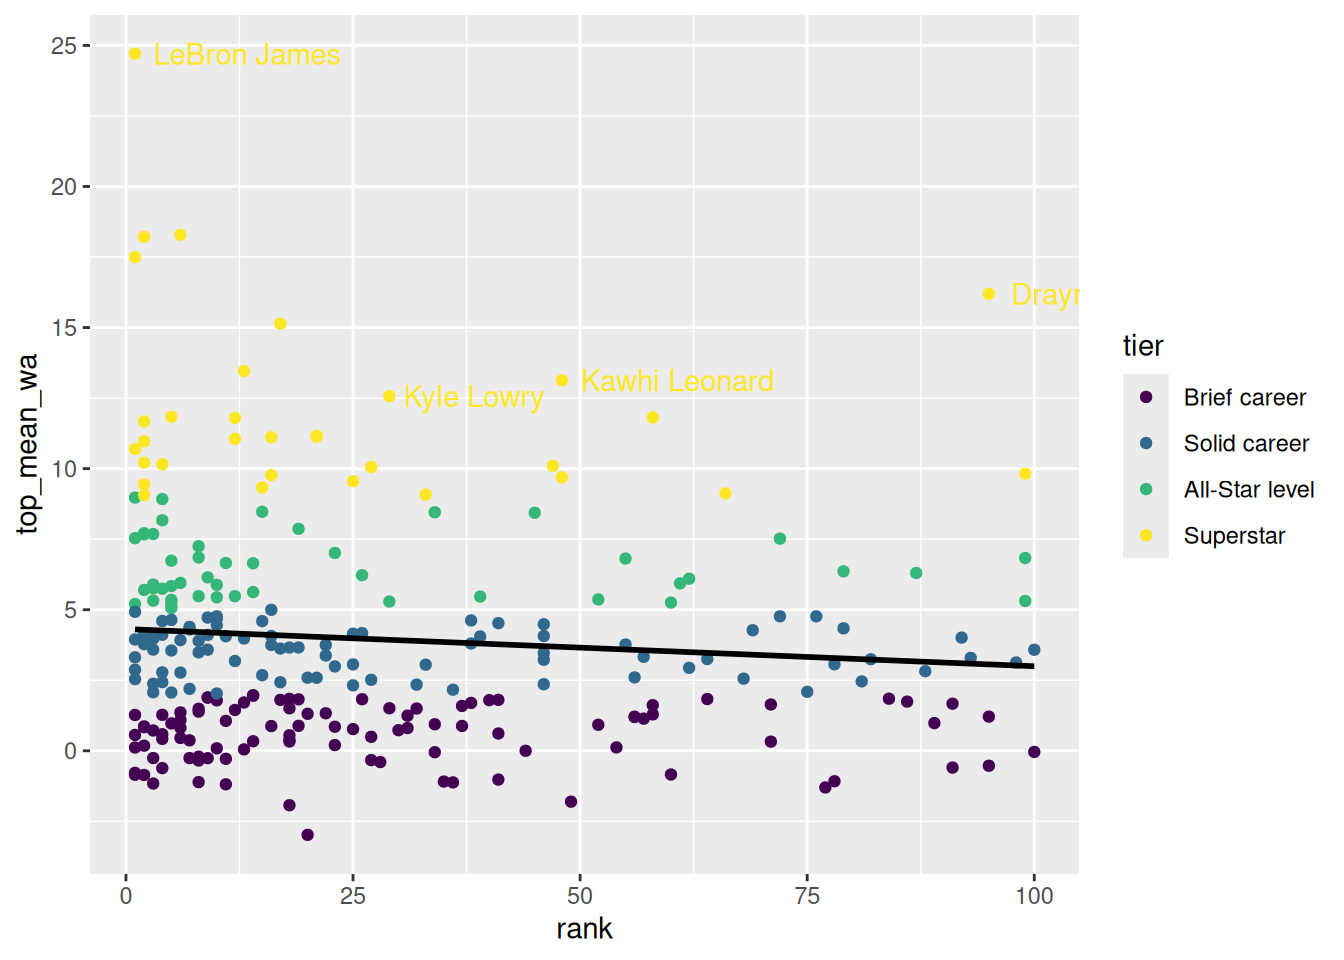
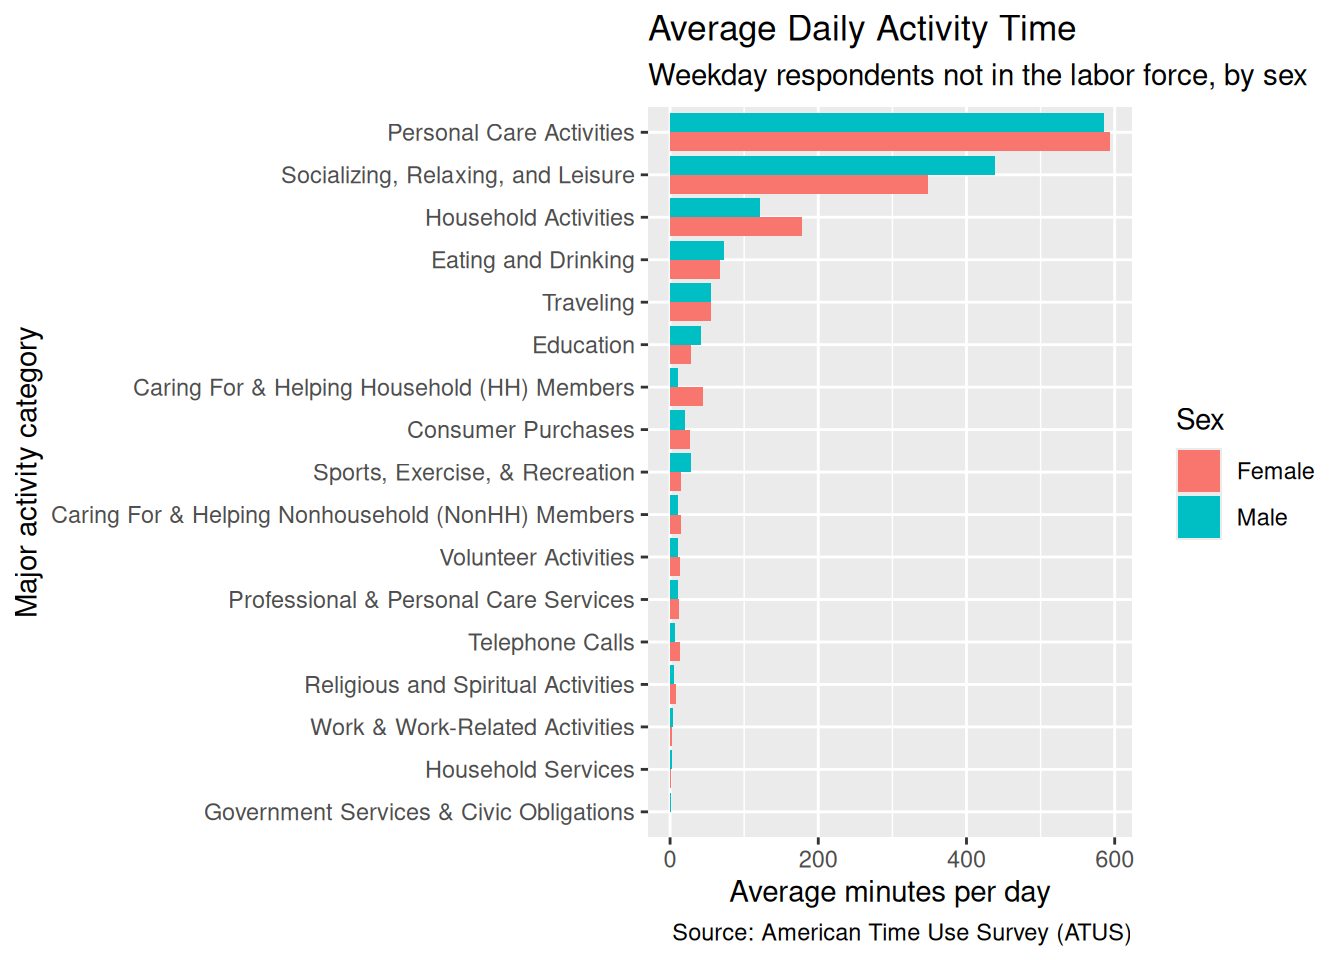
Built site for gh-pages

diff --git a/analysis.html b/analysis.html
@@ -8,7 +8,7 @@
 
 <meta name="author" content="Chloe Mercurio">
 
-<title>Analyzing NBA Recruits</title>
+<title>Analyzing Americans’ Time Use</title>
 <style>
 /* Default styles provided by pandoc.
 ** See https://pandoc.org/MANUAL.html#variables-for-html for config info.
@@ -53,7 +53,7 @@ ul.task-list li input[type="checkbox"] {
 
 <header id="title-block-header" class="quarto-title-block default">
 <div class="quarto-title">
-<h1 class="title">Analyzing NBA Recruits</h1>
+<h1 class="title">Analyzing Americans’ Time Use</h1>
 </div>
 
 
@@ -76,40 +76,37 @@ ul.task-list li input[type="checkbox"] {
 </header>
 
 
+<p>A database table lives on disk and can be arbitrarily large, while a data frame lives in memory. The ATUS activity table you are about to use has 4.9 million rows, which is why it ships as a DuckDB file rather than as a CSV you would read into R.</p>
+<p><strong>dbplyr</strong> is the translator: you write an ordinary <strong>dplyr</strong> pipeline against a database table, it turns the pipeline into SQL, and the database — here DuckDB, running inside your R session through the <strong>duckdb</strong> driver and the <strong>DBI</strong> interface — does the work. R receives only the rows you ask for with <code>collect()</code>.</p>
+<p>The <code>activities</code> table records each diary entry’s start time and duration. <code>respondents</code> has one row per person, including sex, age, and employment status, while <code>activity_codes</code> maps numeric codes to category names. The six-digit <code>activity_code</code> encodes a three-level hierarchy: <code>120303</code> means Socializing, Relaxing, and Leisure (<code>12</code>) &gt; TV and Movies (<code>03</code>) &gt; Watching TV (<code>03</code>). Likewise, <code>start_hhmm</code> encodes time in HHMM format, so <code>1430</code> means 2:30 PM.</p>
 <div class="cell">
-<div class="cell-output cell-output-stdout">
-<pre><code>Rows: 1,873
-Columns: 10
-$ name          &lt;chr&gt; "Al Harrington", "Rashard Lewis", "Korleone Young", "Dan…
-$ rank          &lt;dbl&gt; 1, 2, 3, 4, 5, 6, 7, 8, 9, 10, 11, 12, 13, 14, 14, 16, 1…
-$ recruit_year  &lt;dbl&gt; 1998, 1998, 1998, 1998, 1998, 1998, 1998, 1998, 1998, 19…
-$ college       &lt;chr&gt; NA, NA, NA, "University of California, Los Angeles", "Lo…
-$ drafted       &lt;lgl&gt; TRUE, TRUE, TRUE, TRUE, TRUE, FALSE, FALSE, TRUE, TRUE, …
-$ recruit_group &lt;chr&gt; "#1–10", "#1–10", "#1–10", "#1–10", "#1–10", "#1–10", "#…
-$ nba_mean_ws48 &lt;dbl&gt; 0.07390909, 0.13525000, NA, 0.14000000, 0.12450000, NA, …
-$ top_mean_wa   &lt;dbl&gt; 3.946000, 11.672000, NA, 4.600000, 0.970000, NA, NA, 3.8…
-$ total_seasons &lt;dbl&gt; 16, 16, 1, 10, 9, NA, NA, 13, 13, NA, 1, 14, 17, NA, NA,…
-$ tier          &lt;chr&gt; "Solid career", "Superstar", "Brief career", "Solid care…</code></pre>
+<div class="cell-output cell-output-stderr">
+<pre><code>duckdb keeps downloaded extensions and secrets in a temporary directory:
+ℹ /tmp/RtmpAIvhrI/duckdb
+This is removed when the R session ends.
+• Extensions are re-downloaded each session.
+• Secrets are lost.
+ℹ Run duckdb(shared_home = TRUE) (or create ~/.duckdb) to keep them (suitable for most users).
+ℹ Run duckdb(shared_home = FALSE) to accept the temporary directory (and silence this message).
+ℹ See ?duckdb_storage for details and alternatives.</code></pre>
 </div>
 </div>
 <div class="cell">
-<div class="cell-output cell-output-stdout">
-<pre><code>      rank        nba_mean_ws48       top_mean_wa     total_seasons   
- Min.   :  1.00   Min.   :-0.03000   Min.   :-2.980   Min.   : 0.000  
- 1st Qu.: 25.00   1st Qu.: 0.07000   1st Qu.: 0.970   1st Qu.: 1.000  
- Median : 50.00   Median : 0.09200   Median : 2.990   Median : 4.000  
- Mean   : 50.19   Mean   : 0.09622   Mean   : 3.746   Mean   : 5.071  
- 3rd Qu.: 75.00   3rd Qu.: 0.12050   3rd Qu.: 5.364   3rd Qu.: 8.000  
- Max.   :100.00   Max.   : 0.25046   Max.   :24.708   Max.   :18.000  
- NAs    :338      NAs    :1504       NAs    :1504     NAs    :940     
-  drafted       
- Mode :logical  
- FALSE:1255     
- TRUE :618      
-                
-                
-                
-                </code></pre>
+<div class="cell-output cell-output-stderr">
+<pre><code>! Grouped output by "tucaseid" and "sex".
+ℹ Override behaviour and silence this message with the `.groups` argument.
+ℹ Or use `.by` instead of `group_by()`.
+! Grouped output by "sex".
+ℹ Override behaviour and silence this message with the `.groups` argument.
+ℹ Or use `.by` instead of `group_by()`.</code></pre>
+</div>
+</div>
+<p>That render took as long as the last one, because the aggregation over 4.9 million rows still had to run once to fill <code>analysis_cache/</code>. From now on every render reads the 36-row <code>activity_avg</code> back from disk and never touches the database. The cache is keyed on the chunk’s code, not on the database file. If you ever drop a newer <code>atus.duckdb</code> into <code>data/</code>, delete <code>analysis_cache/</code> before trusting the numbers.</p>
+<div class="cell">
+<div class="cell-output cell-output-stderr">
+<pre><code>! Grouped output by "sex", "major_code", and "major_name".
+ℹ Override behaviour and silence this message with the `.groups` argument.
+ℹ Or use `.by` instead of `group_by()`.</code></pre>
 </div>
 </div>
 <div class="cell">
@@ -121,9 +118,12 @@ $ tier          &lt;chr&gt; "Solid career", "Superstar", "Brief career", "Solid 
 </div>
 </div>
 </div>
-<p>The <code>college</code> column is <code>NA</code> for 81 players, among them the prep-to-pro stars who skipped college before the NBA’s 2006 age rule — Amar’e Stoudemire (2002), LeBron James (2003), and Dwight Howard (2004). Among the rest, Kentucky (41), Duke (39), and Kansas (38) sent the most top-100 recruits in these 16 classes.</p>
-<p><code>drafted</code> is <code>FALSE</code> for 1,255 of the 1,873 players in <code>basketball_tibble</code> and <code>TRUE</code> for only 618: most of the top-ranked high school players The Pudding tracked were never drafted at all.</p>
-<p>Of the 40 players in the “Superstar” tier, 12 came from the “#1–10” group, but 8 were never ranked in the top 100 at all. The draft gap is far wider than the stardom gap: 84% of “#1–10” recruits were drafted, against 13% of the “#51–100” group.</p>
+<div class="quarto-figure quarto-figure-center">
+<figure class="figure">
+<p><img src="analysis_files/hourly-area-chart.png" class="img-fluid figure-img"></p>
+<figcaption>Screenshot of the hourly activity area chart</figcaption>
+</figure>
+</div>
 
 </main>
 <!-- /main column -->

diff --git a/index.html b/index.html
@@ -8,7 +8,7 @@
 
 <meta name="author" content="Chloe Mercurio">
 
-<title>Analyzing NBA Recruits</title>
+<title>Analyzing Americans’ Time Use</title>
 <style>
 /* Default styles provided by pandoc.
 ** See https://pandoc.org/MANUAL.html#variables-for-html for config info.
@@ -53,7 +53,7 @@ ul.task-list li input[type="checkbox"] {
 
 <header id="title-block-header" class="quarto-title-block default">
 <div class="quarto-title">
-<h1 class="title">Analyzing NBA Recruits</h1>
+<h1 class="title">Analyzing Americans’ Time Use</h1>
 </div>
 
 
@@ -76,40 +76,37 @@ ul.task-list li input[type="checkbox"] {
 </header>
 
 
+<p>A database table lives on disk and can be arbitrarily large, while a data frame lives in memory. The ATUS activity table you are about to use has 4.9 million rows, which is why it ships as a DuckDB file rather than as a CSV you would read into R.</p>
+<p><strong>dbplyr</strong> is the translator: you write an ordinary <strong>dplyr</strong> pipeline against a database table, it turns the pipeline into SQL, and the database — here DuckDB, running inside your R session through the <strong>duckdb</strong> driver and the <strong>DBI</strong> interface — does the work. R receives only the rows you ask for with <code>collect()</code>.</p>
+<p>The <code>activities</code> table records each diary entry’s start time and duration. <code>respondents</code> has one row per person, including sex, age, and employment status, while <code>activity_codes</code> maps numeric codes to category names. The six-digit <code>activity_code</code> encodes a three-level hierarchy: <code>120303</code> means Socializing, Relaxing, and Leisure (<code>12</code>) &gt; TV and Movies (<code>03</code>) &gt; Watching TV (<code>03</code>). Likewise, <code>start_hhmm</code> encodes time in HHMM format, so <code>1430</code> means 2:30 PM.</p>
 <div class="cell">
-<div class="cell-output cell-output-stdout">
-<pre><code>Rows: 1,873
-Columns: 10
-$ name          &lt;chr&gt; "Al Harrington", "Rashard Lewis", "Korleone Young", "Dan…
-$ rank          &lt;dbl&gt; 1, 2, 3, 4, 5, 6, 7, 8, 9, 10, 11, 12, 13, 14, 14, 16, 1…
-$ recruit_year  &lt;dbl&gt; 1998, 1998, 1998, 1998, 1998, 1998, 1998, 1998, 1998, 19…
-$ college       &lt;chr&gt; NA, NA, NA, "University of California, Los Angeles", "Lo…
-$ drafted       &lt;lgl&gt; TRUE, TRUE, TRUE, TRUE, TRUE, FALSE, FALSE, TRUE, TRUE, …
-$ recruit_group &lt;chr&gt; "#1–10", "#1–10", "#1–10", "#1–10", "#1–10", "#1–10", "#…
-$ nba_mean_ws48 &lt;dbl&gt; 0.07390909, 0.13525000, NA, 0.14000000, 0.12450000, NA, …
-$ top_mean_wa   &lt;dbl&gt; 3.946000, 11.672000, NA, 4.600000, 0.970000, NA, NA, 3.8…
-$ total_seasons &lt;dbl&gt; 16, 16, 1, 10, 9, NA, NA, 13, 13, NA, 1, 14, 17, NA, NA,…
-$ tier          &lt;chr&gt; "Solid career", "Superstar", "Brief career", "Solid care…</code></pre>
+<div class="cell-output cell-output-stderr">
+<pre><code>duckdb keeps downloaded extensions and secrets in a temporary directory:
+ℹ /tmp/RtmpAIvhrI/duckdb
+This is removed when the R session ends.
+• Extensions are re-downloaded each session.
+• Secrets are lost.
+ℹ Run duckdb(shared_home = TRUE) (or create ~/.duckdb) to keep them (suitable for most users).
+ℹ Run duckdb(shared_home = FALSE) to accept the temporary directory (and silence this message).
+ℹ See ?duckdb_storage for details and alternatives.</code></pre>
 </div>
 </div>
 <div class="cell">
-<div class="cell-output cell-output-stdout">
-<pre><code>      rank        nba_mean_ws48       top_mean_wa     total_seasons   
- Min.   :  1.00   Min.   :-0.03000   Min.   :-2.980   Min.   : 0.000  
- 1st Qu.: 25.00   1st Qu.: 0.07000   1st Qu.: 0.970   1st Qu.: 1.000  
- Median : 50.00   Median : 0.09200   Median : 2.990   Median : 4.000  
- Mean   : 50.19   Mean   : 0.09622   Mean   : 3.746   Mean   : 5.071  
- 3rd Qu.: 75.00   3rd Qu.: 0.12050   3rd Qu.: 5.364   3rd Qu.: 8.000  
- Max.   :100.00   Max.   : 0.25046   Max.   :24.708   Max.   :18.000  
- NAs    :338      NAs    :1504       NAs    :1504     NAs    :940     
-  drafted       
- Mode :logical  
- FALSE:1255     
- TRUE :618      
-                
-                
-                
-                </code></pre>
+<div class="cell-output cell-output-stderr">
+<pre><code>! Grouped output by "tucaseid" and "sex".
+ℹ Override behaviour and silence this message with the `.groups` argument.
+ℹ Or use `.by` instead of `group_by()`.
+! Grouped output by "sex".
+ℹ Override behaviour and silence this message with the `.groups` argument.
+ℹ Or use `.by` instead of `group_by()`.</code></pre>
+</div>
+</div>
+<p>That render took as long as the last one, because the aggregation over 4.9 million rows still had to run once to fill <code>analysis_cache/</code>. From now on every render reads the 36-row <code>activity_avg</code> back from disk and never touches the database. The cache is keyed on the chunk’s code, not on the database file. If you ever drop a newer <code>atus.duckdb</code> into <code>data/</code>, delete <code>analysis_cache/</code> before trusting the numbers.</p>
+<div class="cell">
+<div class="cell-output cell-output-stderr">
+<pre><code>! Grouped output by "sex", "major_code", and "major_name".
+ℹ Override behaviour and silence this message with the `.groups` argument.
+ℹ Or use `.by` instead of `group_by()`.</code></pre>
 </div>
 </div>
 <div class="cell">
@@ -121,9 +118,12 @@ $ tier          &lt;chr&gt; "Solid career", "Superstar", "Brief career", "Solid 
 </div>
 </div>
 </div>
-<p>The <code>college</code> column is <code>NA</code> for 81 players, among them the prep-to-pro stars who skipped college before the NBA’s 2006 age rule — Amar’e Stoudemire (2002), LeBron James (2003), and Dwight Howard (2004). Among the rest, Kentucky (41), Duke (39), and Kansas (38) sent the most top-100 recruits in these 16 classes.</p>
-<p><code>drafted</code> is <code>FALSE</code> for 1,255 of the 1,873 players in <code>basketball_tibble</code> and <code>TRUE</code> for only 618: most of the top-ranked high school players The Pudding tracked were never drafted at all.</p>
-<p>Of the 40 players in the “Superstar” tier, 12 came from the “#1–10” group, but 8 were never ranked in the top 100 at all. The draft gap is far wider than the stardom gap: 84% of “#1–10” recruits were drafted, against 13% of the “#51–100” group.</p>
+<div class="quarto-figure quarto-figure-center">
+<figure class="figure">
+<p><img src="analysis_files/hourly-area-chart.png" class="img-fluid figure-img"></p>
+<figcaption>Screenshot of the hourly activity area chart</figcaption>
+</figure>
+</div>
 
 </main>
 <!-- /main column -->
